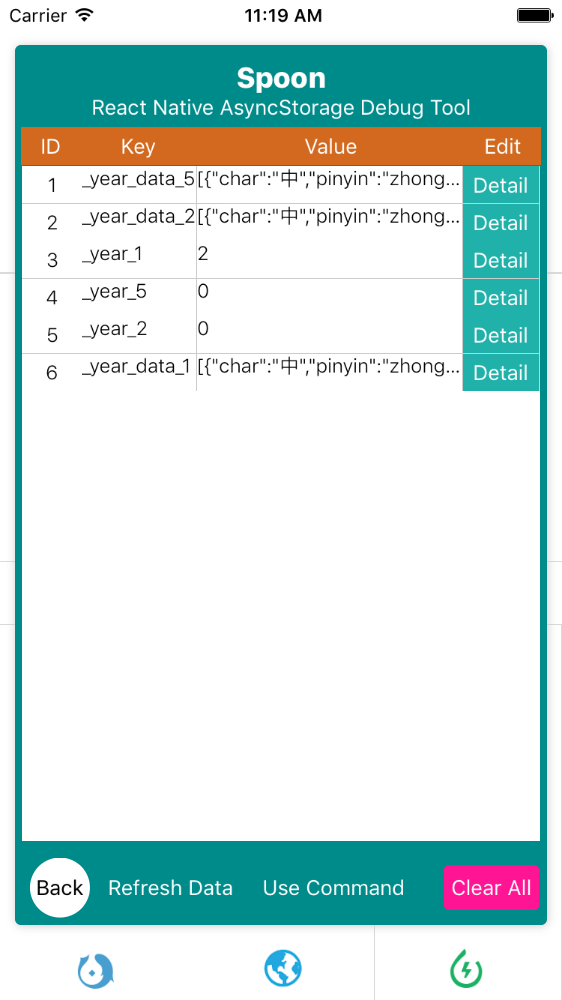
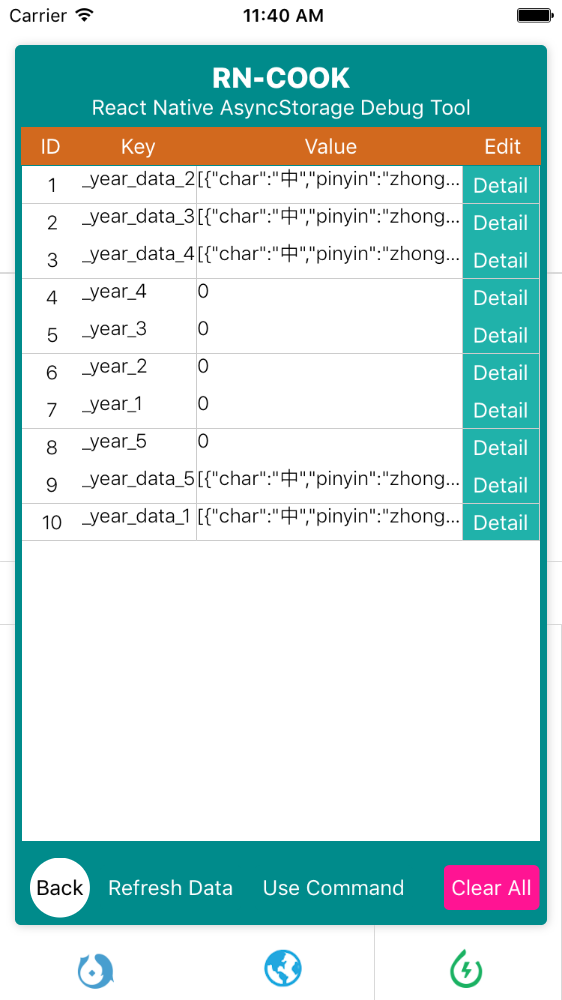
修改标题

diff --git a/index.js b/index.js
@@ -32,7 +32,7 @@ let pixel =  1 / PixelRatio.get();
 
 const DESC = 'React Native AsyncStorage Debug Tool';
 
-const TOOL_NAME = 'Spoon';
+const TOOL_NAME = 'RN-COOK';
 
 class Noodles extends Component{
   constructor(props){

diff --git a/README.md b/README.md
@@ -41,12 +41,10 @@ AsyncStorage is very difficult to debug. I want to develop a tool that have a UI
     
 ## Show Case 
 ### Table 
- ![](1.png)       
-### Detail info       
- ![](2.png)  
-### Command     
+ ![](1.png)           
+### Command          
  ![](3.png)  
-### Edit value    
+### Edit        
  ![](4.png)           
  
        
